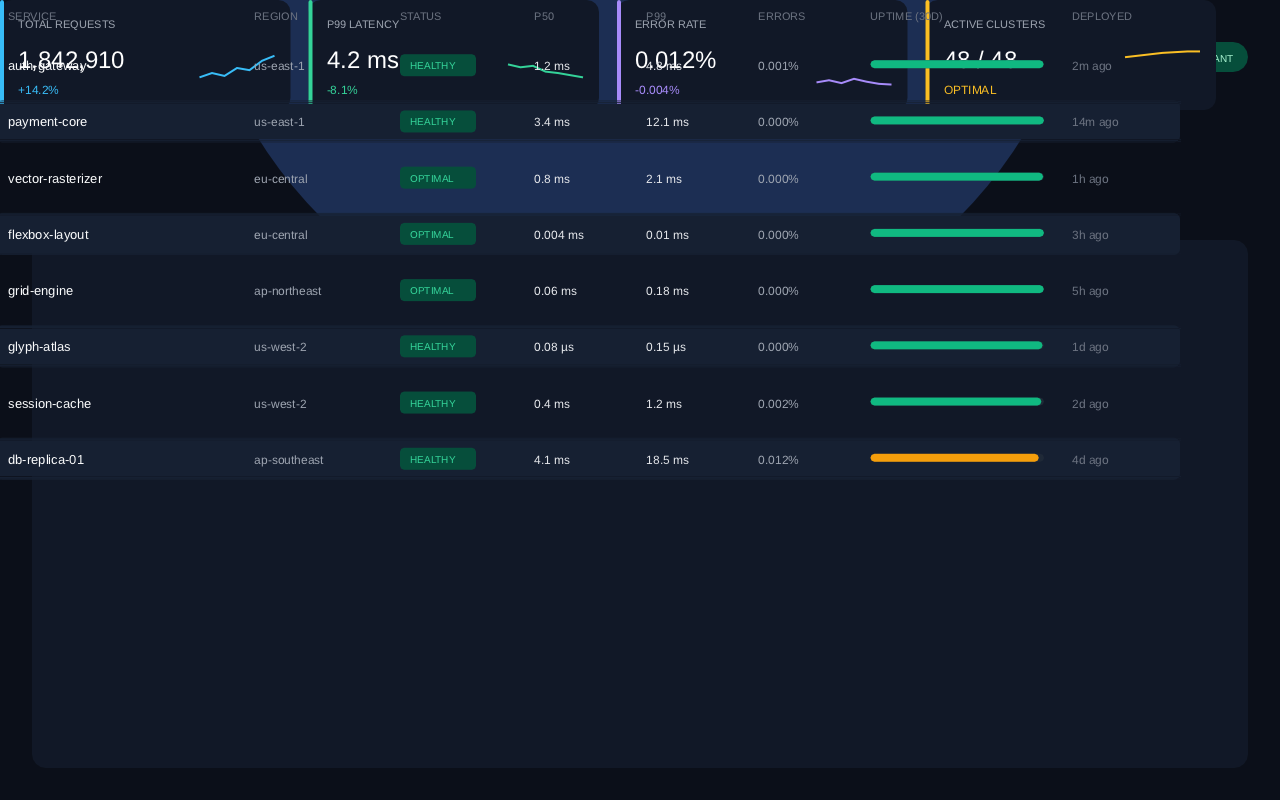
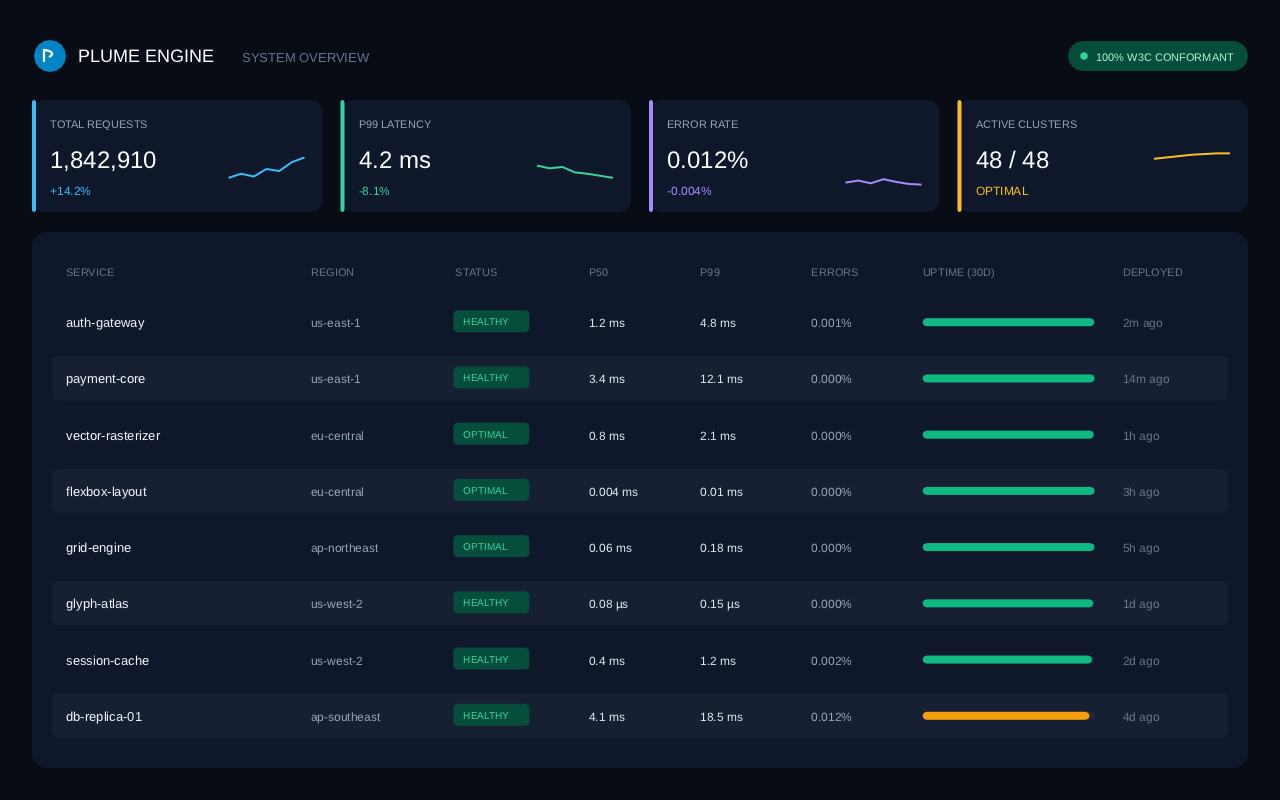
fix(layout): add Tree.AbsoluteRect and fix showcase rendering coordinates

diff --git a/examples/main.go b/examples/main.go
@@ -90,7 +90,7 @@ func main() {
 		Width:         layout.Px(canvasW),
 		Height:        layout.Px(canvasH),
 		Padding:       layout.Uniform(32),
-		Gap:           layout.Px(24),
+		Gap:           layout.Px(20),
 	})
 
 	// Header bar: Flex row with space-between
@@ -99,7 +99,7 @@ func main() {
 		FlexDirection:  layout.FlexDirectionRow,
 		JustifyContent: layout.JustifySpaceBetween,
 		AlignItems:     layout.AlignCenter,
-		Height:         layout.Px(50),
+		Height:         layout.Px(48),
 	})
 	tree.AddChild(root, header)
 
@@ -110,7 +110,7 @@ func main() {
 			layout.Fr(1), layout.Fr(1), layout.Fr(1), layout.Fr(1),
 		},
 		ColumnGap: layout.Px(18),
-		Height:    layout.Px(110),
+		Height:    layout.Px(112),
 	})
 	tree.AddChild(root, metricsGrid)
 
@@ -126,7 +126,7 @@ func main() {
 		Display:       layout.DisplayFlex,
 		FlexDirection: layout.FlexDirectionColumn,
 		FlexGrow:      1,
-		Padding:       layout.Uniform(20),
+		Padding:       layout.Uniform(24),
 		Gap:           layout.Px(12),
 	})
 	tree.AddChild(root, tableBox)
@@ -151,7 +151,7 @@ func main() {
 
 	var thIDs []layout.NodeID
 	for i := 0; i < 8; i++ {
-		th := tree.NewNode(layout.Style{Height: layout.Px(28)})
+		th := tree.NewNode(layout.Style{Height: layout.Px(30)})
 		tree.AddChild(tableGrid, th)
 		thIDs = append(thIDs, th)
 	}
@@ -160,7 +160,7 @@ func main() {
 	for r := 0; r < len(services); r++ {
 		var rCols []layout.NodeID
 		for c := 0; c < 8; c++ {
-			td := tree.NewNode(layout.Style{Height: layout.Px(38)})
+			td := tree.NewNode(layout.Style{Height: layout.Px(40)})
 			tree.AddChild(tableGrid, td)
 			rCols = append(rCols, td)
 		}
@@ -175,53 +175,51 @@ func main() {
 	// 5. Render Scene onto Raster Canvas
 	startRender := time.Now()
 	canvas := raster.NewCanvas(canvasW, canvasH)
-	canvas.Clear(plume.Hex("#0b0f19"))
-
-	// Subtle radial/gradient background glow effect
-	glowPath := geom.Circle(canvasW/2, -100, 450)
-	canvas.DrawPath(glowPath, plume.Fill(plume.Color{R: 20, G: 35, B: 65, A: 70}))
+	canvas.Clear(plume.Hex("#080c14"))
 
 	// Header rendering
-	hRect := tree.ComputedRect(header)
-	logoBadge := geom.Circle(hRect.X+18, hRect.Y+hRect.Height/2, 16)
-	canvas.DrawPath(logoBadge, plume.Fill(plume.Hex("#38bdf8")))
+	hRect := tree.AbsoluteRect(header)
 
-	// Stylized vector "P" feather in logo badge
+	// Logo badge with geometric feather icon
+	logoBadge := geom.Circle(hRect.X+18, hRect.Y+hRect.Height/2, 16)
+	canvas.DrawPath(logoBadge, plume.Fill(plume.Hex("#0284c7")))
+
 	var pb geom.PathBuilder
-	pb.MoveTo(hRect.X+13, hRect.Y+hRect.Height/2+7)
-	pb.LineTo(hRect.X+13, hRect.Y+hRect.Height/2-7)
-	pb.CubicTo(hRect.X+19, hRect.Y+hRect.Height/2-7, hRect.X+24, hRect.Y+hRect.Height/2-3, hRect.X+17, hRect.Y+hRect.Height/2)
-	pFeather := geom.Stroke(pb.Finish(), geom.StrokeOptions{Width: 2.5})
+	pb.MoveTo(hRect.X+12, hRect.Y+hRect.Height/2+6)
+	pb.LineTo(hRect.X+12, hRect.Y+hRect.Height/2-6)
+	pb.CubicTo(hRect.X+18, hRect.Y+hRect.Height/2-6, hRect.X+24, hRect.Y+hRect.Height/2-2, hRect.X+17, hRect.Y+hRect.Height/2+1)
+	pFeather := geom.Stroke(pb.Finish(), geom.StrokeOptions{Width: 2.2})
 	canvas.DrawPath(pFeather, plume.Fill(plume.White))
 
-	text.DrawText(canvas, cache, font, "PLUME ENGINE", hRect.X+44, hRect.Y+32, 20, plume.White)
+	text.DrawText(canvas, cache, font, "PLUME ENGINE", hRect.X+46, hRect.Y+30, 18, plume.White)
+	text.DrawText(canvas, cache, font, "SYSTEM OVERVIEW", hRect.X+210, hRect.Y+30, 13, plume.Hex("#64748b"))
 
 	// Status badge pill in header
-	badgeRect := raster.Rect{X: hRect.X + hRect.Width - 170, Y: hRect.Y + 10, Width: 170, Height: 30}
+	badgeRect := raster.Rect{X: hRect.X + hRect.Width - 180, Y: hRect.Y + 9, Width: 180, Height: 30}
 	canvas.DrawRoundedRect(badgeRect, 15, plume.Fill(plume.Hex("#064e3b")))
-	statusDot := geom.Circle(badgeRect.X+18, badgeRect.Y+15, 4)
+	statusDot := geom.Circle(badgeRect.X+16, badgeRect.Y+15, 4)
 	canvas.DrawPath(statusDot, plume.Fill(plume.Hex("#34d399")))
-	text.DrawText(canvas, cache, font, "100% W3C CONFORMANT", badgeRect.X+30, badgeRect.Y+20, 10, plume.Hex("#a7f3d0"))
+	text.DrawText(canvas, cache, font, "100% W3C CONFORMANT", badgeRect.X+28, badgeRect.Y+20, 11, plume.Hex("#a7f3d0"))
 
 	// Metrics Cards
 	for i, m := range metrics {
-		mRect := tree.ComputedRect(metricNodeIDs[i])
-		canvas.DrawRoundedRect(mRect, 12, plume.Fill(plume.Hex("#111827")))
+		mRect := tree.AbsoluteRect(metricNodeIDs[i])
+		canvas.DrawRoundedRect(mRect, 12, plume.Fill(plume.Hex("#0f172a")))
 
 		// Accent border bar on left
 		bar := raster.Rect{X: mRect.X, Y: mRect.Y, Width: 4, Height: mRect.Height}
 		canvas.DrawRoundedRect(bar, 2, plume.Fill(m.accent))
 
-		text.DrawText(canvas, cache, font, m.title, mRect.X+18, mRect.Y+28, 11, plume.Hex("#9ca3af"))
+		text.DrawText(canvas, cache, font, m.title, mRect.X+18, mRect.Y+28, 11, plume.Hex("#94a3b8"))
 		text.DrawText(canvas, cache, font, m.value, mRect.X+18, mRect.Y+68, 24, plume.White)
-		text.DrawText(canvas, cache, font, m.change, mRect.X+18, mRect.Y+94, 12, m.accent)
+		text.DrawText(canvas, cache, font, m.change, mRect.X+18, mRect.Y+95, 12, m.accent)
 
 		// Smooth vector sparkline curve
 		if len(m.spark) > 1 {
-			sparkW := float32(75)
-			sparkH := float32(36)
-			sparkX := mRect.X + mRect.Width - sparkW - 16
-			sparkY := mRect.Y + mRect.Height - sparkH - 24
+			sparkW := float32(76)
+			sparkH := float32(34)
+			sparkX := mRect.X + mRect.Width - sparkW - 18
+			sparkY := mRect.Y + mRect.Height - sparkH - 26
 
 			var spb geom.PathBuilder
 			step := sparkW / float32(len(m.spark)-1)
@@ -240,14 +238,14 @@ func main() {
 	}
 
 	// Table Container Background
-	tRect := tree.ComputedRect(tableBox)
-	canvas.DrawRoundedRect(tRect, 14, plume.Fill(plume.Hex("#111827")))
+	tRect := tree.AbsoluteRect(tableBox)
+	canvas.DrawRoundedRect(tRect, 14, plume.Fill(plume.Hex("#0f172a")))
 
 	// Table Headers
 	headers := []string{"SERVICE", "REGION", "STATUS", "P50", "P99", "ERRORS", "UPTIME (30D)", "DEPLOYED"}
 	for i, thID := range thIDs {
-		rect := tree.ComputedRect(thID)
-		text.DrawText(canvas, cache, font, headers[i], rect.X+8, rect.Y+20, 11, plume.Hex("#6b7280"))
+		rect := tree.AbsoluteRect(thID)
+		text.DrawText(canvas, cache, font, headers[i], rect.X+10, rect.Y+20, 11, plume.Hex("#64748b"))
 	}
 
 	// Table Rows
@@ -256,48 +254,48 @@ func main() {
 
 		// Alternating subtle zebra striping
 		if r%2 == 1 {
-			rStart := tree.ComputedRect(cols[0])
-			rEnd := tree.ComputedRect(cols[7])
+			rStart := tree.AbsoluteRect(cols[0])
+			rEnd := tree.AbsoluteRect(cols[7])
 			rowBg := raster.Rect{
 				X:      rStart.X - 4,
 				Y:      rStart.Y - 2,
 				Width:  (rEnd.X + rEnd.Width) - rStart.X + 8,
 				Height: rStart.Height + 4,
 			}
-			canvas.DrawRoundedRect(rowBg, 6, plume.Fill(plume.Hex("#162032")))
+			canvas.DrawRoundedRect(rowBg, 6, plume.Fill(plume.Hex("#172033")))
 		}
 
 		// Service Name
-		r0 := tree.ComputedRect(cols[0])
-		text.DrawText(canvas, cache, font, s.name, r0.X+8, r0.Y+24, 13, plume.Hex("#f9fafb"))
+		r0 := tree.AbsoluteRect(cols[0])
+		text.DrawText(canvas, cache, font, s.name, r0.X+10, r0.Y+25, 13, plume.Hex("#f1f5f9"))
 
 		// Region
-		r1 := tree.ComputedRect(cols[1])
-		text.DrawText(canvas, cache, font, s.region, r1.X+8, r1.Y+24, 12, plume.Hex("#9ca3af"))
+		r1 := tree.AbsoluteRect(cols[1])
+		text.DrawText(canvas, cache, font, s.region, r1.X+10, r1.Y+25, 12, plume.Hex("#94a3b8"))
 
 		// Status Badge
-		r2 := tree.ComputedRect(cols[2])
+		r2 := tree.AbsoluteRect(cols[2])
 		statusPill := raster.Rect{X: r2.X + 8, Y: r2.Y + 8, Width: 76, Height: 22}
 		canvas.DrawRoundedRect(statusPill, 4, plume.Fill(plume.Hex("#064e3b")))
 		text.DrawText(canvas, cache, font, s.status, statusPill.X+10, statusPill.Y+15, 10, plume.Hex("#34d399"))
 
 		// Latency & Errors
-		r3 := tree.ComputedRect(cols[3])
-		text.DrawText(canvas, cache, font, s.p50, r3.X+8, r3.Y+24, 12, plume.Hex("#e5e7eb"))
+		r3 := tree.AbsoluteRect(cols[3])
+		text.DrawText(canvas, cache, font, s.p50, r3.X+10, r3.Y+25, 12, plume.Hex("#e2e8f0"))
 
-		r4 := tree.ComputedRect(cols[4])
-		text.DrawText(canvas, cache, font, s.p99, r4.X+8, r4.Y+24, 12, plume.Hex("#e5e7eb"))
+		r4 := tree.AbsoluteRect(cols[4])
+		text.DrawText(canvas, cache, font, s.p99, r4.X+10, r4.Y+25, 12, plume.Hex("#e2e8f0"))
 
-		r5 := tree.ComputedRect(cols[5])
-		text.DrawText(canvas, cache, font, s.errorRt, r5.X+8, r5.Y+24, 12, plume.Hex("#9ca3af"))
+		r5 := tree.AbsoluteRect(cols[5])
+		text.DrawText(canvas, cache, font, s.errorRt, r5.X+10, r5.Y+25, 12, plume.Hex("#94a3b8"))
 
 		// Uptime progress indicator bar
-		r6 := tree.ComputedRect(cols[6])
+		r6 := tree.AbsoluteRect(cols[6])
 		barW := r6.Width - 28
-		bgBar := raster.Rect{X: r6.X + 8, Y: r6.Y + 14, Width: barW, Height: 8}
-		canvas.DrawRoundedRect(bgBar, 4, plume.Fill(plume.Hex("#1f2937")))
+		bgBar := raster.Rect{X: r6.X + 10, Y: r6.Y + 16, Width: barW, Height: 8}
+		canvas.DrawRoundedRect(bgBar, 4, plume.Fill(plume.Hex("#1e293b")))
 
-		fgBar := raster.Rect{X: r6.X + 8, Y: r6.Y + 14, Width: barW * s.uptime, Height: 8}
+		fgBar := raster.Rect{X: r6.X + 10, Y: r6.Y + 16, Width: barW * s.uptime, Height: 8}
 		barCol := plume.Hex("#10b981")
 		if s.uptime < 0.98 {
 			barCol = plume.Hex("#f59e0b")
@@ -305,8 +303,8 @@ func main() {
 		canvas.DrawRoundedRect(fgBar, 4, plume.Fill(barCol))
 
 		// Deployment timestamp
-		r7 := tree.ComputedRect(cols[7])
-		text.DrawText(canvas, cache, font, s.deploy, r7.X+8, r7.Y+24, 12, plume.Hex("#6b7280"))
+		r7 := tree.AbsoluteRect(cols[7])
+		text.DrawText(canvas, cache, font, s.deploy, r7.X+10, r7.Y+25, 12, plume.Hex("#64748b"))
 	}
 
 	renderDur := time.Since(startRender)

diff --git a/layout/arena.go b/layout/arena.go
@@ -172,9 +172,28 @@ func (t *Tree) AddChild(parent, child NodeID) {
 }
 
 // ComputedRect returns the computed position and size of the node identified
-// by id. The result is only meaningful after [Compute] has been called.
+// by id, relative to its parent container. The result is only meaningful after
+// [Compute] has been called.
 func (t *Tree) ComputedRect(id NodeID) Rect {
 	return t.nodes[id].Computed
+}
+
+// AbsoluteRect returns the absolute canvas/screen coordinates and size of the
+// node identified by id, accumulated by traversing up the parent chain to the root.
+// The result is only meaningful after [Compute] has been called.
+func (t *Tree) AbsoluteRect(id NodeID) Rect {
+	if id == InvalidNode || int(id) >= len(t.nodes) {
+		return Rect{}
+	}
+	r := t.nodes[id].Computed
+	curr := t.nodes[id].Parent
+	for curr != InvalidNode && int(curr) < len(t.nodes) {
+		p := &t.nodes[curr]
+		r.X += p.Computed.X
+		r.Y += p.Computed.Y
+		curr = p.Parent
+	}
+	return r
 }
 
 // SetStyle updates the style configuration of an existing node.
